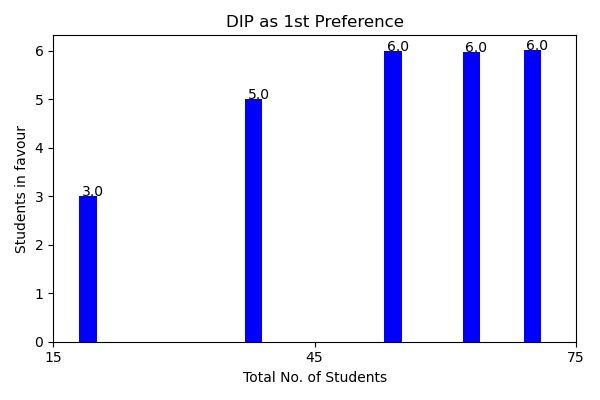
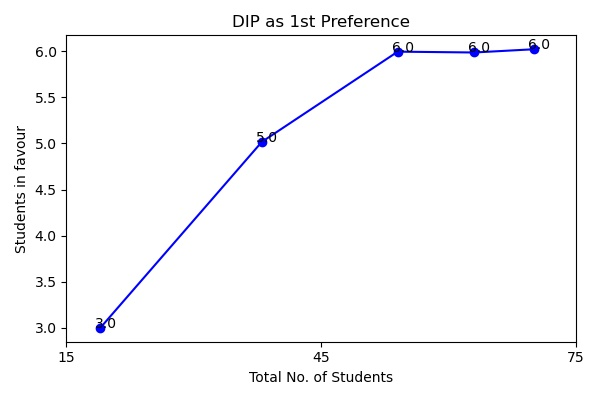
Styled DIP Page

diff --git a/dip/views.py b/dip/views.py
@@ -24,7 +24,7 @@ def home(request):
         y1=y.tolist()
 
         fig = plt.figure(figsize=(6,4))
-        plt.bar(x1, y1,color = 'b', width = 2)
+        plt.plot(x1, y1,'o-b')
         
         if (num==1):
             plt.title('DIP as 1st Preference')
@@ -49,10 +49,10 @@ def home(request):
 
     x_test=[1,2,3,4,5,6]
     
-    fig = plt.figure(figsize=(12,4))
-    plt.plot(x_test, y_pred, 'o-b')
-    for i,j in zip(x_test,y_pred):
-        plt.annotate(str(j),xy=(i-0.07,j+0.9))     
+    fig, ax = plt.subplots(figsize=(12,4))
+    plt.bar(x_test, y_pred, color = 'b')
+    for p in ax.patches:
+        ax.annotate(str(p.get_height()), (p.get_x()+(p.get_width()/2), p.get_height() * 1.01))
 
     plt.xlabel('Preference No.')
     plt.ylabel('Expected no. of Students in favour')
